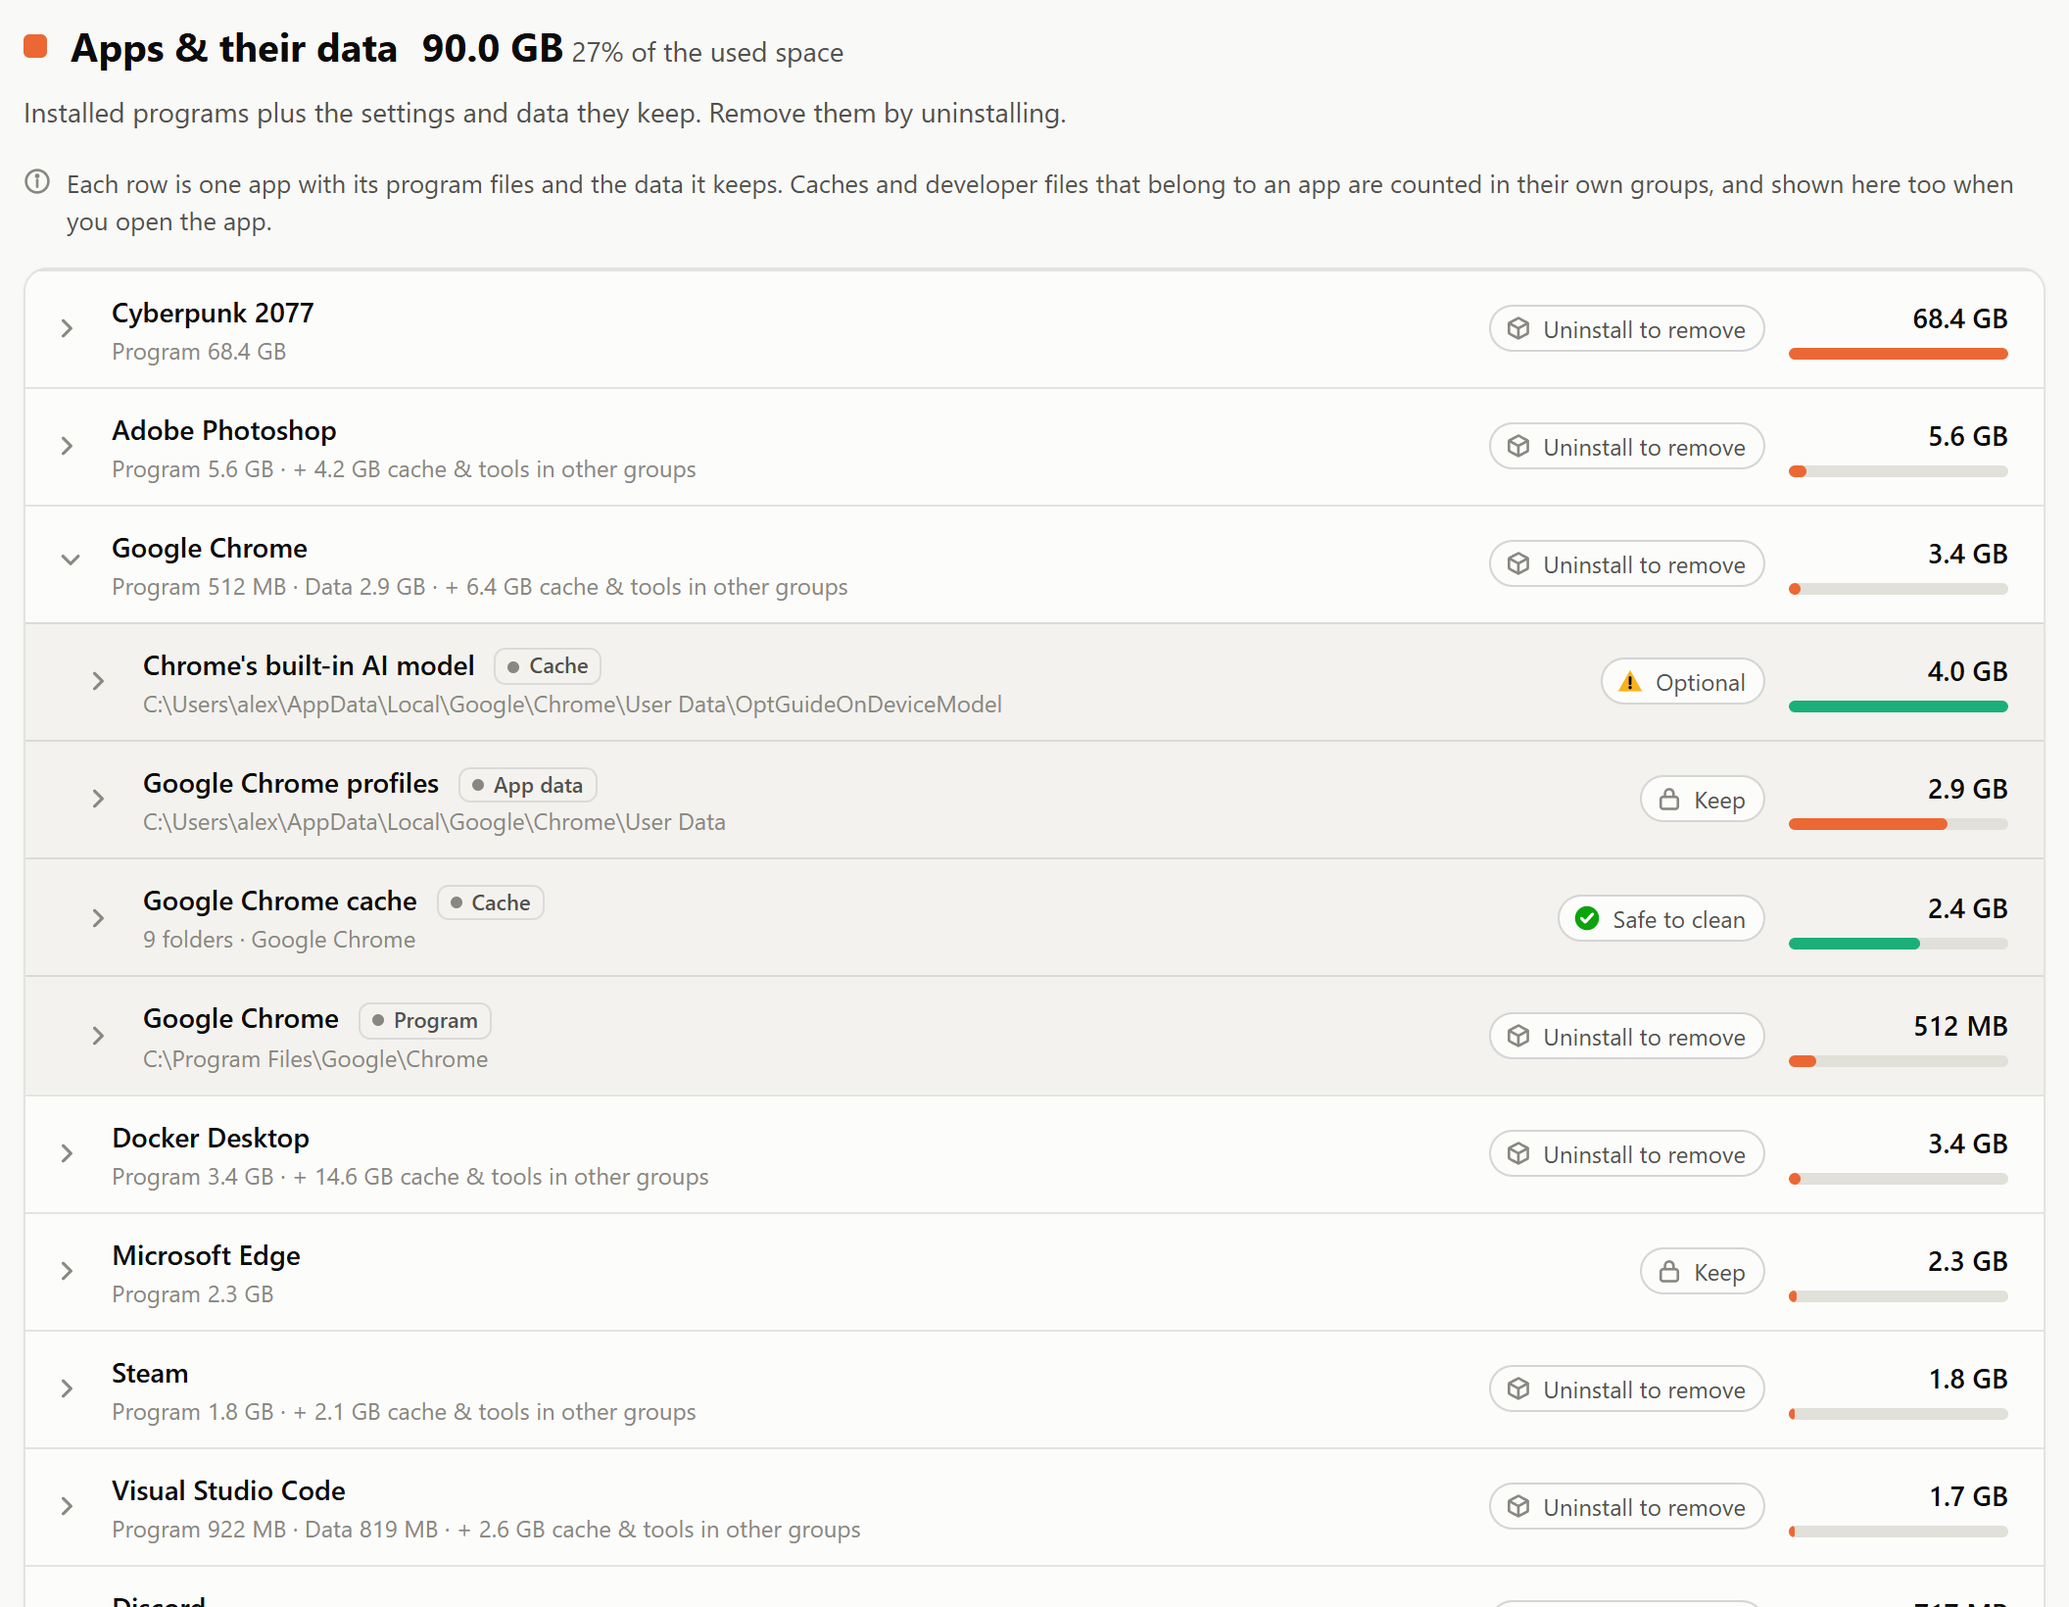
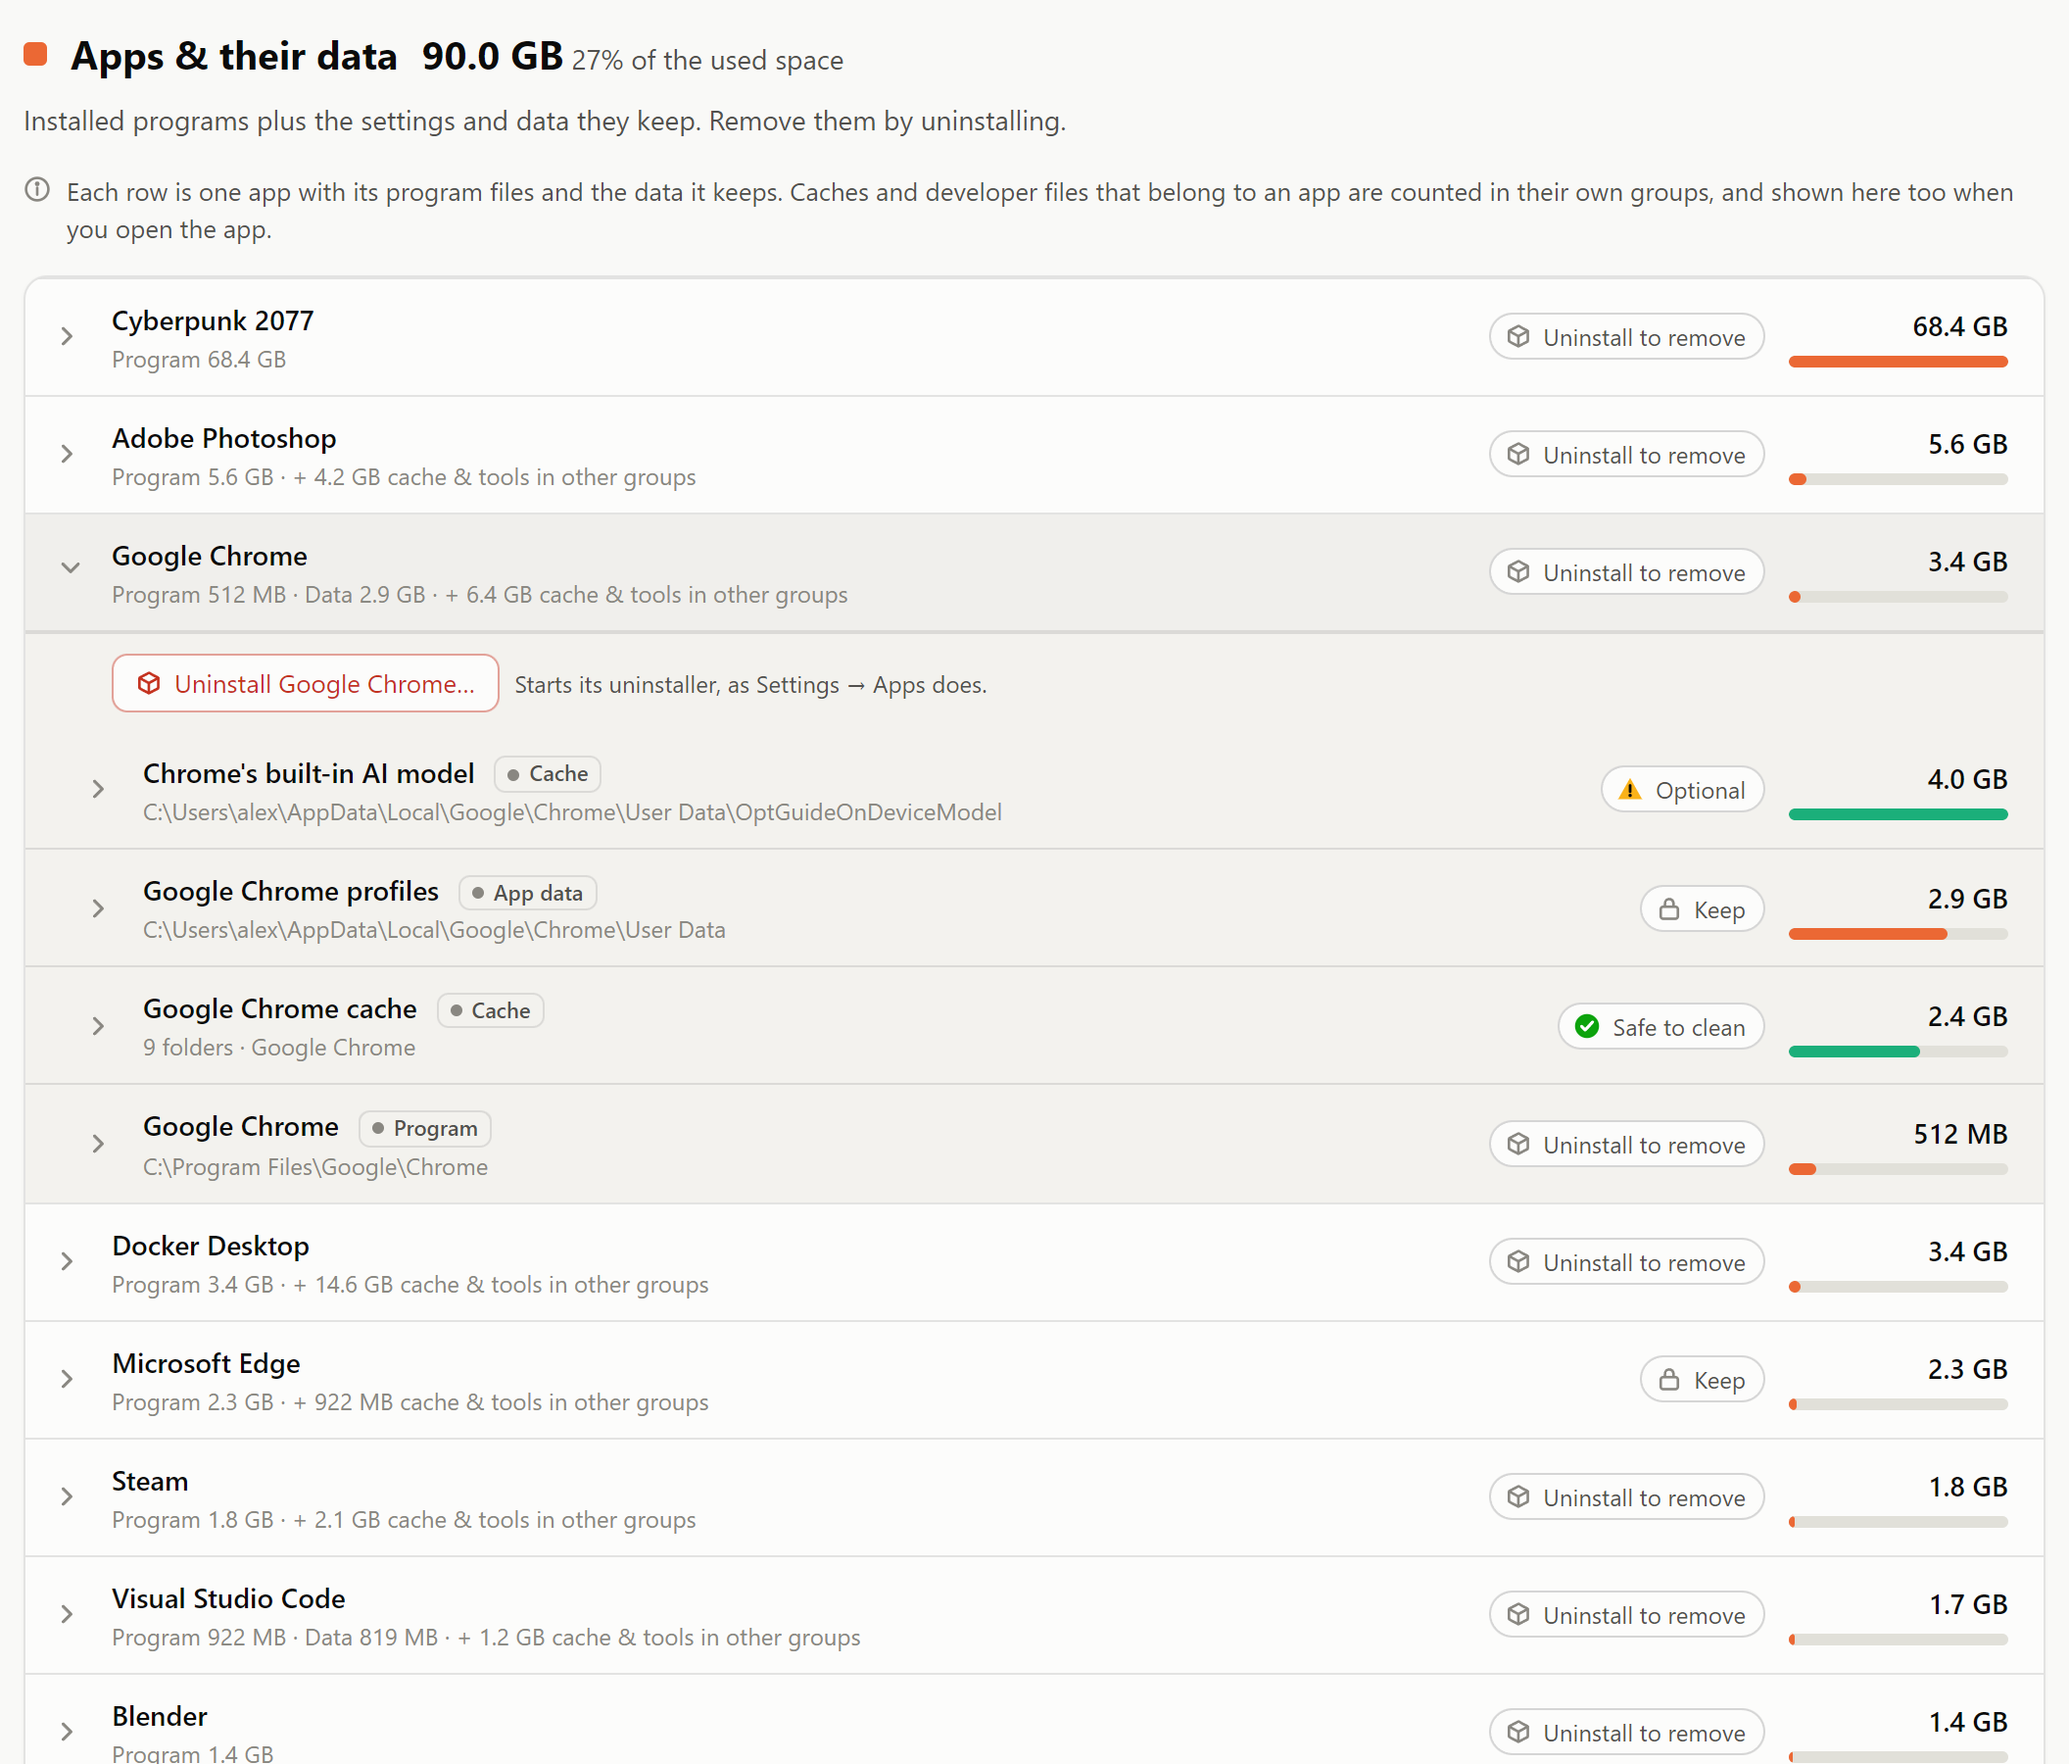
Show the app in the README
New screenshots, all from a made-up scan:
- the app window
- the delete dialog
- an item with its show and delete buttons
- an app with its Uninstall button
- the Safe to clean list
- the light overview

The dark overview is gone: the window at the top already shows the dark theme.

diff --git a/README.md b/README.md
@@ -31,7 +31,10 @@ for each item:
   to remove, keep, or unknown
 - **how to clean it**: the exact setting, menu or command, with a Copy button
 
-![Overview of a disk report](docs/overview.png)
+…and gives you a button to do it right there: delete, uninstall, or run the cleaning command, one item
+at a time.
+
+![Disk Report showing the latest scan of the C: drive](docs/app-window.png)
 
 <sub>Screenshots in this README use made-up data.</sub>
 
@@ -62,6 +65,8 @@ Open any item to see what it is, and act on it right there, one thing at a time:
 - **Run** a cleaning command from the catalog (`npm cache clean --force`, `docker system prune`,
   `powercfg /h off`…) in a terminal window you can follow and answer.
 - **Empty the Recycle Bin**, or open the Windows Settings page an item talks about.
+
+![Deleting asks first and says exactly what happens](docs/delete-dialog.png)
 
 What the app never does:
 
@@ -95,12 +100,14 @@ To run the app from source: `py -m pip install -r requirements.txt`, then `py ap
 ## What's in the report
 
 **Every item explains itself.** Open any row to see what it is, what to do about it, what's
-inside, which file types it holds, how old they are, and its biggest files.
+inside, which file types it holds, how old they are, and its biggest files. Each file and folder
+listed has a button to show it in File Explorer and one to delete it.
 
 ![An item opened in the report: Downloads](docs/item-details.png)
 
 **Apps come with their data.** Each app shows its program files plus the settings, caches and
-downloads it keeps elsewhere, so you know what uninstalling it would free.
+downloads it keeps elsewhere, so you know what uninstalling it would free, and an Uninstall button
+next to it.
 
 ![Apps grouped with their data](docs/apps.png)
 
@@ -123,7 +130,7 @@ It also finds:
 
 Light and dark themes follow your Windows setting.
 
-![The report in dark mode](docs/overview-dark.png)
+![The report in light mode](docs/overview.png)
 
 ## Safety labels
 
